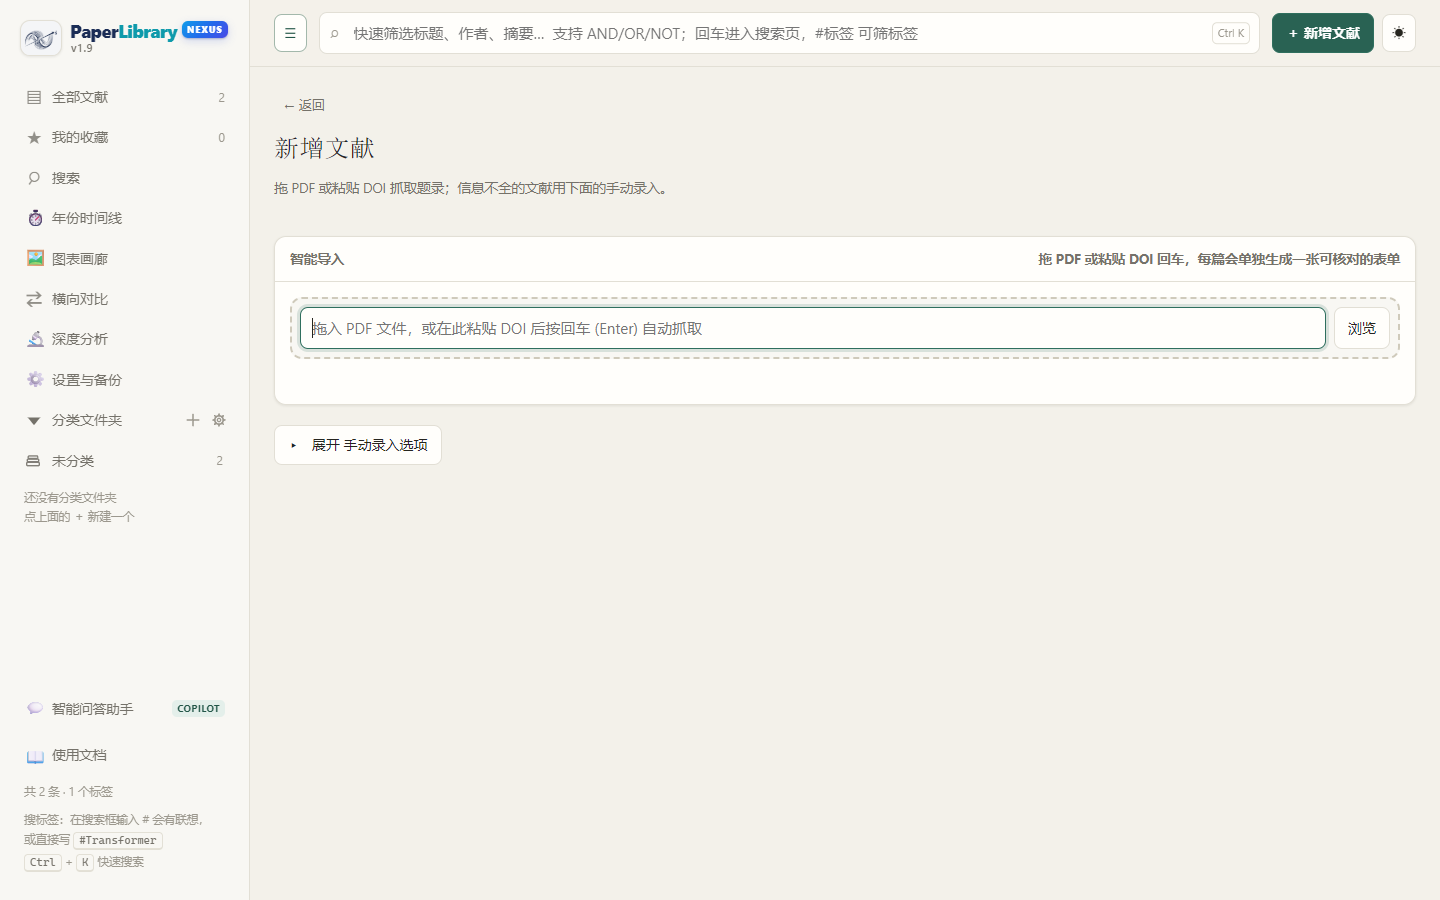
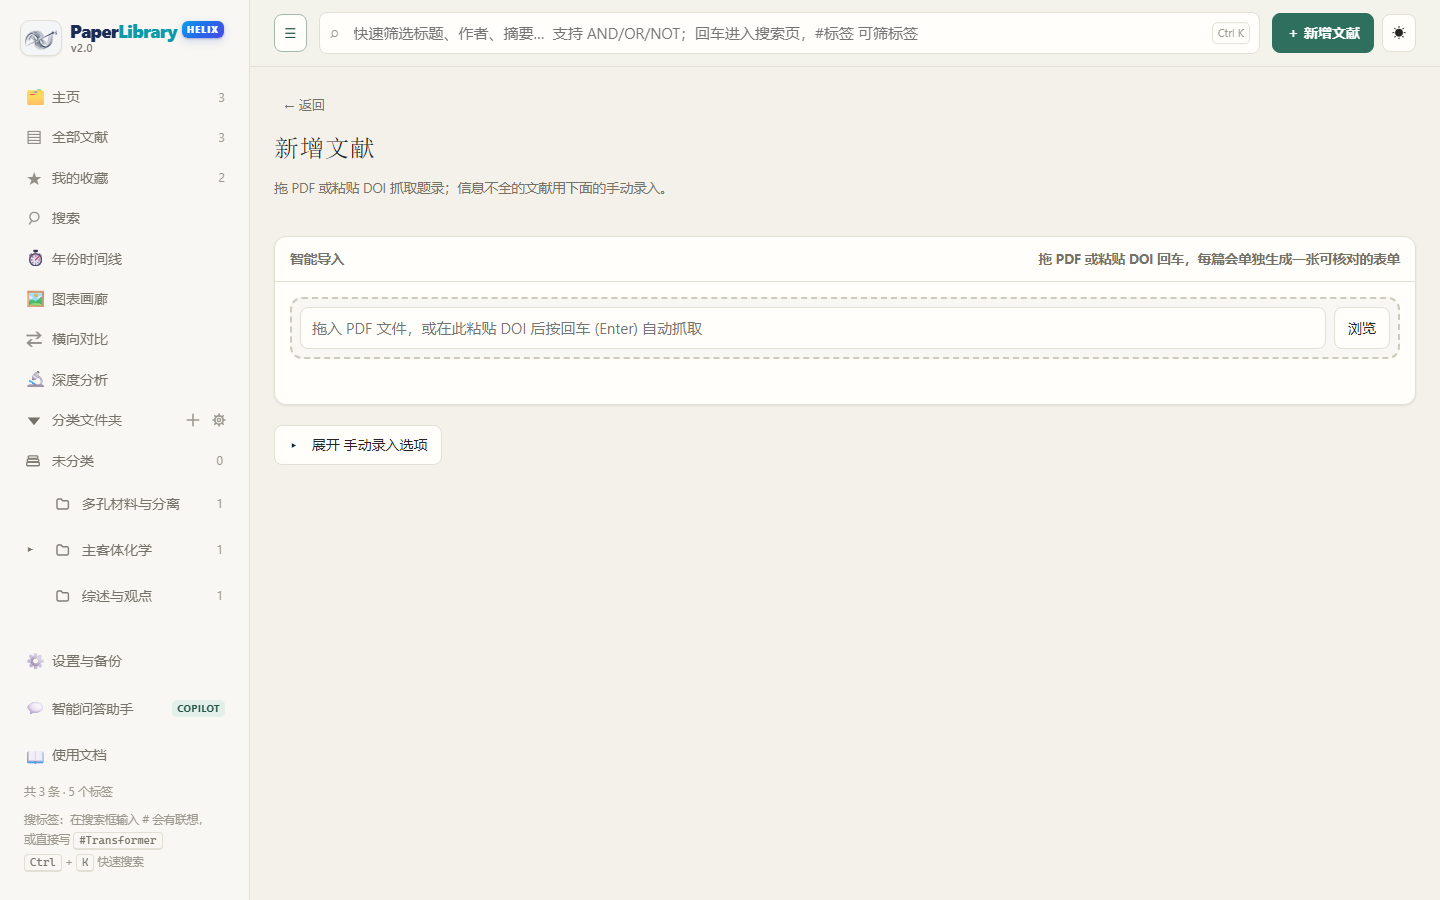
README 与开屏公告更新到 v2.0 HELIX
- README：改写简介与「功能一览」，新增主页文件夹卡片/子文件夹标签页、
  图表自动提取与图注定位、补充材料标签页、开屏公告、更新与回滚等描述；
  界面导览按新的侧栏顺序重写，分类章节补主页与面包屑；测试项数更正为 782；
  API Key 说明由「明文」更正为 DPAPI 加密。
- 截图：14 张 1440×900 界面截图由无头 Edge 重新采集（新增 01b-all、13-notice），
  品牌显示 HELIX / v2.0；演示库为 3 篇公开论文，AI 总结、横向对比与深度分析
  为真实 deepseek-chat 输出。
- public/notice.json：开屏公告改为「PaperLibrary HELIX v2.0 已就绪」，
  列出本版用户可感知的变化。
- 使用说明.txt：补主页/面包屑/拖拽排序与版本更新流程，API Key 改为加密表述。

diff --git a/README.md b/README.md
@@ -1,6 +1,6 @@
 # PaperLibrary HELIX · 本地文献库
 
-PaperLibrary HELIX 是一个**跑在自己电脑上的文献管理工具**：把散落在文件夹里的 PDF 收进来，自动识别题录，支持题录与全文检索、内嵌阅读、AI 中文总结、图表提取、多篇横向对比，以及 GB/T 7714、APA、BibTeX 等格式的引用导出。
+PaperLibrary HELIX 是一个**跑在自己电脑上的文献管理工具**：把散落在文件夹里的 PDF 收进来，自动识别题录，并按磁盘目录自动分类；支持题录与全文检索、内嵌阅读、AI 中文总结、图表提取、多篇横向对比，以及 GB/T 7714、APA、BibTeX 等格式的引用导出。
 
 它不注册账号、不上传云端，所有数据只放在程序目录的 `data/` 里；**不联网也能完成入库、检索、阅读、标注和导出**。联网与大模型是可选项：配好 API Key 才有 AI 总结、对话与联网检索。
 
@@ -9,7 +9,7 @@ PaperLibrary HELIX 是一个**跑在自己电脑上的文献管理工具**：把
 - 下载地址：[GitHub Releases](https://github.com/PaperLibrary-Developers/PaperLibrary/releases)（下载最新发布里的 `PaperLibrary.*.HELIX.zip`，约 42 MB）
 - 开源许可：AGPL-3.0
 
-![主界面：全部文献](assets/readme/01-home.png)
+![主页：分类文件夹卡片](assets/readme/01-home.png)
 
 > **只想先跑通？** 五步即可：解压 → 双击 `PaperLibrary.exe` → `＋ 新增文献` 拖入一个 PDF → 核对卡片点 `导入这篇` → 点开这篇文献看原文、生成总结、复制引用。下面的章节会逐项解释每个按钮。
 
@@ -57,14 +57,14 @@ PaperLibrary 把这几件事收进一个本地库：
 
 ## 2. 功能一览
 
-- **入库**：拖入 PDF 自动抓题录；粘贴 DOI 抓题录；手动补录；批量导入；扫描已有目录；导入 JSON 备份。
-- **整理**：真实文件夹分类（与磁盘同步）、标签、收藏、评分、批量移动、重复文件检查。
-- **检索**：全局快速筛选、字段限定、布尔组合、`#标签`、题录/全文两种范围、结果分面筛选。
-- **阅读**：内置 PDF 阅读器（页码、缩放、适宽/适页、全文搜索、荧光笔、便签、框选、反色、下载）。
-- **AI（需配置）**：单篇中文总结（会读正文与补充材料）、围绕文献对话、贴图提问、整库问答助手。
-- **分析**：图表画廊（FigureLens）、横向对比、深度分析（多字段 + 五维评分）、年份时间线。
+- **入库**：拖入 PDF 自动抓题录与图表；粘贴 DOI 抓题录；手动补录；批量导入；递归扫描已有目录；导入 JSON 备份。
+- **整理**：分类直接对应磁盘文件夹（主页是文件夹卡片入口，可逐层下钻，同级可拖拽排序）、标签、收藏、评分、批量移动、重复文件检查。
+- **检索**：全局快速筛选、字段限定、布尔组合、`#标签`、题录/全文两种范围、结果分面筛选；全文索引随导入增量刷新。
+- **阅读**：内置 PDF 阅读器（页码、缩放、适宽/适页、全文搜索、荧光笔、便签、框选、反色、下载）；补充材料以标签页并排打开，逐份保存批注。
+- **AI（需配置）**：单篇中文总结（会读正文与补充材料）、围绕文献对话、贴图提问、整库问答助手、深度分析。
+- **分析**：图表画廊（FigureLens，按图注检索、点图跳回原文图注）、横向对比、深度分析（多字段 + 五维评分）、年份时间线。
 - **产出**：五种引用格式、AI 总结与对话导出 PDF、JSON / BibTeX / Markdown 整库导出。
-- **维护**：设置页四栏折叠、扫描与去重、备份、版本更新、服务状态。
+- **维护**：设置页四栏折叠、扫描与去重、备份、开屏公告、版本更新与回滚、服务状态。
 
 ---
 
@@ -145,7 +145,7 @@ python -m paperlib --port 4321
 - 依赖包括 PyMuPDF（PDF 正文与图）、Pillow（缩略图），以及 Word/RTF/Excel 补充材料所需的解析库。前两者是阅读与图表提取所必需；解析库缺失时仍可保存补充材料原件，只是抽不出正文。
 - 停止：`python -m paperlib --stop --port 4321`（会先保存数据）。
 - 查看全部参数：`python -m paperlib --help`。
-- 完整测试（744 项，约 5 分钟；缺少真实旧库样本时会跳过 1 项）：
+- 完整测试（782 项，约 6 分钟；缺少真实旧库样本时会跳过 1 项）：
 
 ```bat
 python -m unittest discover -s test -v
@@ -157,15 +157,16 @@ python -m unittest discover -s test -v
 
 ## 5. 第一次打开：界面导览
 
-![主界面：全部文献](assets/readme/01-home.png)
+![主页：分类文件夹卡片](assets/readme/01-home.png)
 
-左侧栏分三块，从上到下：
+**主页**（侧栏第一项）不是文献列表，而是**分类文件夹卡片入口**：一张卡片就是一层文件夹，写着里面直接存了几篇、有哪些子文件夹。点 `进入` 下钻一层，列表只显示该目录的文献，顶部出现 `← 返回` 与 `主页` 面包屑，下一级文件夹以卡片排在列表上方。
 
-1. **文献列表**：`全部文献`、`我的收藏`。
-2. **功能页**：`搜索`、`年份时间线`、`图表画廊`、`横向对比`、`深度分析`、`设置与备份`。
-3. **分类文件夹**：显示 `未分类` 和你建立的分类（对应磁盘上的真实目录，见第 7 节）。
+左侧栏自上而下：
 
-侧栏底部还有两个入口：`智能问答助手`（左下角弹出问答面板）和 `使用文档`（应用内完整新手手册）。
+1. **主页 / 全部文献 / 我的收藏**：主页是文件夹卡片；全部文献是整库卡片列表；我的收藏只列加星的。
+2. **功能页**：`搜索`、`年份时间线`、`图表画廊`、`横向对比`、`深度分析`。
+3. **分类文件夹**：`未分类` 和你建立的分类（对应磁盘上的真实目录，见第 7 节）；标题旁可折叠、可 ＋ 新建、可 ⚙ 管理。
+4. **底部**：`设置与备份`、`智能问答助手`（左下角弹出问答面板）、`使用文档`（应用内完整新手手册）。
 
 顶部工具栏：
 
@@ -176,6 +177,10 @@ python -m unittest discover -s test -v
 - `☀`：切换纸感浅色 / 夜间深色主题。
 
 侧栏底部还写着库藏统计（共几条文献、几个标签）和标签输入提示。
+
+`全部文献` 是整库的卡片列表，右下角能直接看到每篇的标签、分类与评分：
+
+![全部文献：卡片列表](assets/readme/01b-all.png)
 
 ---
 
@@ -229,11 +234,13 @@ python -m unittest discover -s test -v
 
 ### 7.1 分类就是磁盘上的文件夹
 
-左侧 `分类文件夹` 直接读取 `data\article\papers\` 下的真实目录：
+左侧 `分类文件夹` 与主页的文件夹卡片，都直接读取 `data\article\papers\` 下的真实目录：
 
+- **主页**列顶层文件夹卡片；卡片上的「1 篇」是「直接放在这里」的篇数，子文件夹名以小标签显示。
+- 点卡片 `进入` 后，列表只剩该目录的文献，下方是下一级子文件夹卡片；顶部 `← 返回 / 主页` 面包屑可逐级回退，`含子文件夹` 开关决定是否把子目录的文献一起列出。
 - 根目录下的 PDF 归入 `未分类`。
-- 支持嵌套目录和空目录。
-- 在资源管理器里建文件夹、移动 PDF 后，回到 `设置 → 资产与备份 → 原文与补充材料 → 重新扫描` 同步即可。
+- 支持嵌套目录和空目录；同级分类可以拖拽调整顺序，顺序会记住。
+- 在资源管理器里建文件夹、移动 PDF 后，回到 `设置 → 资产与备份 → 原文与补充材料 → 重新扫描` 同步即可（递归识别目录，按内容指纹去重）。
 
 常用操作：
 
@@ -452,12 +459,18 @@ JSON 包含题录、标签、AI 总结与对话记录，但不含 PDF 原文。
 - `学术检索来源（OpenAlex）`：填 Key 可提升额度；不填走共享 IP。
 - `网络检索（Exa）`：联网检索与对话联网开关，按量计费，可设本月花费上限。
 
-> API Key 明文保存在本机 `data\settings.json`（Exa 在 `websearch.json`，OpenAlex 在 `sources.json`）。不要把 `data/` 发给别人或提交到 Git。
+> API Key 在本机加密保存（Windows DPAPI，绑定当前 Windows 账户与这台机器；Exa 在 `websearch.json`，OpenAlex 在 `sources.json`）。换账户或换机器后需要在设置里重填。不要把 `data/` 发给别人或提交到 Git。
 
-### 12.4 关于
+### 12.4 关于与更新
 
-- `关于与更新`：当前版本、`检查更新`；「启动后自动检查更新」默认开启（只通知，不下载），「自动下载更新」默认关闭。
+- `关于与更新`：当前版本、`检查更新`、`回看更新公告`；「启动后自动检查更新」默认开启（只通知，不下载），「自动下载更新」默认关闭。
+- **更新流程**：检查更新 → 下载（边下边校验字节与 SHA-256）→ `立即安装`。安装只替换程序文件，`data\` 原样保留；中途失败会按 journal 记录回滚到旧程序。
+- 不想让它自动装，也可以去 Releases 下载整包解压覆盖，效果相同、数据不动。
 - `服务与数据`：数据目录、文献统计、运行时长、PID 与自动停止说明。要停服务，关掉窗口即可；命令行方式用 `--stop --port <端口>`。
+
+新版本第一次启动会弹一次开屏公告（版本更新说明 + `不再提示此公告`），之后可以从上面的 `回看更新公告` 再打开：
+
+![开屏公告：版本更新说明与「不再提示」](assets/readme/13-notice.png)
 
 ---
 
@@ -547,7 +560,7 @@ JSON 包含题录、标签、AI 总结与对话记录，但不含 PDF 原文。
 ## 16. 版本与许可
 
 - 版本以程序内「设置与备份 → 关于」和根目录 `version.json` 为准；更新记录与安装包见 [GitHub Releases](https://github.com/PaperLibrary-Developers/PaperLibrary/releases)。
-- 近期版本重点：分类与磁盘目录对齐、扫描入库递归去重、PDF 补充材料标签页与批注、设置页四栏折叠。
+- 本版要点（v2.0，代号 **HELIX**）：主页改为分类文件夹卡片入口并支持子文件夹标签页、图表按图注自动提取与定位、PDF 补充材料标签页与逐份批注、检索与分面提速（正文索引增量刷新）、API Key 改用 Windows DPAPI 加密、本机 HTTP 增加 CSRF 与 DNS 重绑定防护。
 - 更新方式：`设置与备份 → 关于 → 关于与更新 → 检查更新`，下载后点 `立即安装`（安装会保留 `data/`）。
 - 许可证：[GNU Affero General Public License v3.0](LICENSE)。
 
@@ -555,19 +568,21 @@ JSON 包含题录、标签、AI 总结与对话记录，但不含 PDF 原文。
 
 ## 附：截图说明
 
-本 README 中的界面截图均来自发布包的实际运行界面（1440 × 900）：
+本 README 的界面截图由无头浏览器（Edge headless，1440 × 900）从当前源码运行的实际界面自动截取；演示库是 3 篇公开论文，AI 相关画面里的总结、对比表与深度分析均为真实模型输出（deepseek-chat）：
 
 | 截图 | 对应页面 / 状态 |
 | --- | --- |
-| `01-home.png` | 全部文献列表，含分类文件夹与标签 |
+| `01-home.png` | 主页：分类文件夹卡片入口（含子文件夹标签） |
+| `01b-all.png` | 全部文献：整库卡片列表与标签 |
 | `02-import.png` | 新增文献（导入页）空白状态 |
-| `03-import-check.png` | 拖入 PDF 后自动解析出的题录卡片 |
-| `04-detail.png` | 详情页：PDF 阅读器 + AI 总结 |
+| `03-import-check.png` | 拖入 PDF 后解析出的题录卡片（含 DOI 校验与「库里可能已有这篇」提示） |
+| `04-detail.png` | 详情页：左侧 PDF 阅读器，右侧 AI 总结 |
 | `05-cite.png` | 引用格式弹窗（GB/T 7714 选中） |
-| `06-search.png` | 搜索页：关键词 `cucurbituril` 的结果与筛选 |
-| `07-figures.png` | 图表画廊（FigureLens） |
-| `08-compare.png` | 横向对比结果表 |
-| `09-deep.png` | 深度分析：五维评分与字段 |
+| `06-search.png` | 搜索页：关键词 `cucurbituril` 的本地结果与分面筛选 |
+| `07-figures.png` | 图表画廊（FigureLens）：入库自动提取的图表 |
+| `08-compare.png` | 横向对比：通用对比模板生成的结果表 |
+| `09-deep.png` | 深度分析：五维评分与结构化字段 |
 | `10-settings.png` | 设置 → 资产与备份 → 导出与备份 |
-| `11-copilot.png` | 智能问答助手面板（已配置模型） |
+| `11-copilot.png` | 智能问答助手面板（已配置模型，在线模式） |
 | `12-guide.png` | 应用内「使用文档」 |
+| `13-notice.png` | 开屏公告：版本更新说明与「不再提示此公告」 |
